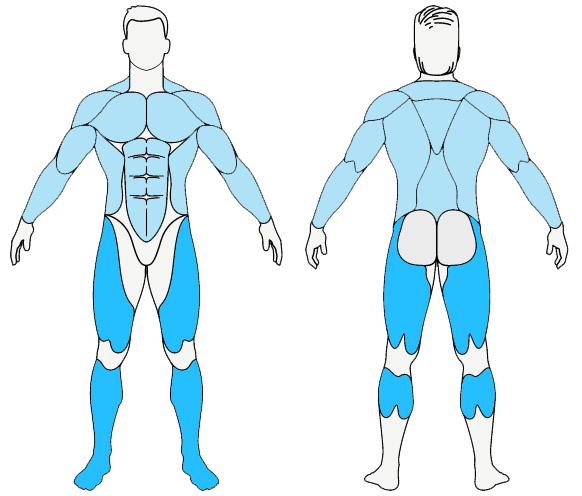
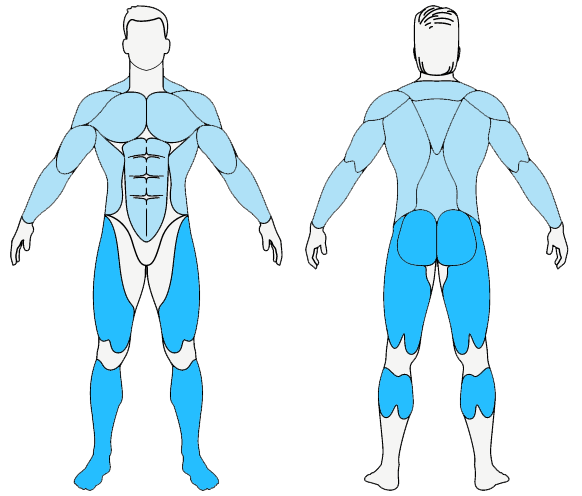
EVO-129 Detalles del SE
Se agrego la parte de Mujer dentro de una de la spreguntas del SE y se corrigio las herramientas aparte que se agrego otra opcion.

Changed region(s): [[0.6804, 0.4234, 0.8351, 0.5444]]

diff --git a/pages/SistemaE/Seccion41.jsx b/pages/SistemaE/Seccion41.jsx
@@ -9,7 +9,7 @@ function Seccion41(props) {
     //si quiero el name lo mando aqui
     props.onChange(value);
   };
-
+  const { valor } = props;
   return (
     <div>
       <div className="grid place-items-center">
@@ -38,11 +38,15 @@ function Seccion41(props) {
             >
               <div className="xl:grid xl:place-items-center">
                 <div className="h-36 w-36">
-                  <img src="img/torsoS.png"></img>
+                  {valor === "hombre" ? (
+                    <img src="img/torsoS.png"></img>
+                  ) : (
+                    <img src="img/torsoSM.png"></img>
+                  )}
                 </div>
               </div>
               <span className="text-xs font-semibold uppercase text-center mt-6">
-              Tronco superior
+                Tronco superior
               </span>
             </label>
           </div>
@@ -62,7 +66,12 @@ function Seccion41(props) {
             >
               <div className="xl:grid xl:place-items-center">
                 <div className="h-36 w-36">
-                  <img src="img/brazo.png"></img>
+                  {valor === "hombre" ? (
+                    <img src="img/brazo.png"></img>
+                  ) : (
+                    <img src="img/brazoM.png"></img>
+                  )}
+
                 </div>
               </div>
               <span className="text-xs font-semibold uppercase text-center mt-6">
@@ -86,11 +95,16 @@ function Seccion41(props) {
             >
               <div className="xl:grid xl:place-items-center">
                 <div className="h-36 w-36">
-                  <img src="img/pierna.png"></img>
+                {valor === "hombre" ? (
+                    <img src="img/pierna.png"></img>
+                  ) : (
+                    <img src="img/piernaM.png"></img>
+                  )}
+                  
                 </div>
               </div>
               <span className="text-xs font-semibold uppercase text-center mt-6">
-              Tronco inferior
+                Tronco inferior
               </span>
             </label>
           </div>
@@ -109,7 +123,12 @@ function Seccion41(props) {
             >
               <div className="xl:grid xl:place-items-center">
                 <div className="h-36 w-36">
-                  <img src="img/completo2.png"></img>
+                {valor === "hombre" ? (
+                    <img src="img/completo2.png"></img>
+                  ) : (
+                    <img src="img/completo2M.png"></img>
+                  )}
+                  
                 </div>
               </div>
               <span className="text-xs font-semibold uppercase text-center mt-6">

diff --git a/pages/rutinaSE.js b/pages/rutinaSE.js
@@ -17,13 +17,13 @@ export default function Home() {
   const router = useRouter();
   const { formData2, checkboxes, arreglo } = router.query;
   //JSON
-  
-    const formulario = JSON.parse(formData2);
-  
-    const herramientas = JSON.parse(checkboxes);
-  
-    const opciones = JSON.parse(arreglo);
-  
+
+  const formulario = JSON.parse(formData2);
+
+  const herramientas = JSON.parse(checkboxes);
+
+  const opciones = JSON.parse(arreglo);
+
   //contenidos de puede llegar a contener cada dia
   const contenido1 = [];//lUNES
   const contenido2 = [];//MARTES
@@ -69,7 +69,7 @@ export default function Home() {
       '2hr': { seriesG: 5, repeticionesG: 5, descanso: "Mas de 3 min" },
     },
   };
-  
+
   if (!opcionesEjercicio[objetivo] || !opcionesEjercicio[objetivo][tiempo]) {
     console.log("Error en el objetivo o tiempo seleccionado.");
     return;
@@ -79,37 +79,38 @@ export default function Home() {
 
 
 
-  
-     //____________________________________________pregunta de experiencia
-     if (opciones[2]==='principiante') {
-      console.log("principiante");
-    } else if (opciones[2]==='intermedio') {
-      console.log("intermedio");
-    } else if (opciones[2]==='avanzado') {
-      console.log("avanzado");
-    } else if (opciones[2]==='experimentado') {
-      console.log("experimentado");
-    } else {
-      console.log("Error en el SE P:OBJETIVO");
-    }
+
+
 
   //____________________________________________pregunta de enfoque.
-  if (opciones[4]==='superior') {
+  if (opciones[4] === 'superior') {
     //push pull leg
     console.log("1");
-  } else if (opciones[4]==='brazos') {
+  } else if (opciones[4] === 'brazos') {
     //pecho espalda brazo pierna
     console.log("2");
-  } else if (opciones[4]==='pierna') {
+  } else if (opciones[4] === 'pierna') {
     //pierna push pull intensidad
     console.log("3");
-  } else if (opciones[4]==='completo') {
+  } else if (opciones[4] === 'completo') {
     //push pull leg intensidad equilibrada ejercicios compuestos
     console.log("4");
   } else {
     console.log("Error en el SE P:ENFOQUE");
   }
 
+  //____________________________________________pregunta de experiencia
+  if (opciones[2] === 'principiante') {
+    console.log("principiante");
+  } else if (opciones[2] === 'intermedio') {
+    console.log("intermedio");
+  } else if (opciones[2] === 'avanzado') {
+    console.log("avanzado");
+  } else if (opciones[2] === 'experimentado') {
+    console.log("experimentado");
+  } else {
+    console.log("Error en el SE P:OBJETIVO");
+  }
 
   //llenar temporal
   for (let i = 0; i < 5; i++) {

diff --git a/pages/SistemaE/Seccion6.jsx b/pages/SistemaE/Seccion6.jsx
@@ -17,6 +17,7 @@ function Seccion6(props) {
   const [ch12, setCh12] = useState(false);
   const [ch13, setCh13] = useState(false);
   const [Ninguno, setNinguno] = useState(false);
+  const [Todos, setTodos] = useState(false);
   
     function handleNoneClick() {
       setNinguno(!Ninguno);
@@ -34,10 +35,32 @@ function Seccion6(props) {
         setCh11(false);
         setCh12(false);
         setCh13(false);
+        setTodos(false);
+      }
+    }
+    function handleAllClick() {
+      setTodos(!Todos);
+      if (!Todos) {
+        setNinguno(false);
+        setCh1(true);
+        setCh2(true);
+        setCh3(true);
+        setCh4(true);
+        setCh5(true);
+        setCh6(true);
+        setCh7(true);
+        setCh8(true);
+        setCh9(true);
+        setCh10(true);
+        setCh11(true);
+        setCh12(true);
+        setCh13(true);
+        setTodos(true);
       }
     }
     function handleChClick(name) {
       setNinguno(false);
+      setTodos(false);
       if (name === "Bandaresistencia") setCh1(!ch1);
       if (name === "Bandasuspension") setCh2(!ch2);
       if (name === "Barra") setCh3(!ch3);
@@ -326,11 +349,23 @@ function Seccion6(props) {
         </li>
         <li className="w-full border-b border-gray-200 sm:border-b-0 sm:border-r dark:border-gray-600">
           <div className="flex items-center pl-3">
+            <input
+              id="ch1"
+              type="checkbox"
+              name="Todos"
+              onChange={onCheckboxChange}
+              checked={Todos} onClick={handleAllClick}
+              className="w-4 h-4 text-blue-600 bg-gray-100 border-gray-300 rounded dark:bg-gray-600 dark:border-gray-500"
+            />
             <label
+              htmlFor="ch1"
               className="w-full py-3 ml-2 text-sm font-medium text-gray-900 dark:text-gray-300"
-            ></label>
+            >
+              Todos
+            </label>
           </div>
         </li>
+
         <li className="w-full border-b border-gray-200 sm:border-b-0 sm:border-r dark:border-gray-600">
           <div className="flex items-center pl-3">
             <label

diff --git a/pages/sistemaexperto.js b/pages/sistemaexperto.js
@@ -142,6 +142,23 @@ export default function Home() {
         BancoInclinado: false,
         Cuerda: false,
       });
+    }else if (name === "Todos") {
+      setCheckboxes({
+        Ninguno: false,
+        Bandaresistencia: true,
+        Bandasuspension: true,
+        Barra: true,
+        BarraZ: true,
+        Barras: true,
+        Mancuernas: true,
+        PesaRusa: true,
+        PlacaPeso: true,
+        MaquinasGYM: true,
+        BancoPlano: true,
+        BancoDeclinado: true,
+        BancoInclinado: true,
+        Cuerda: true,
+      });
     } else {
       setCheckboxes({
         ...checkboxes,
@@ -160,7 +177,7 @@ export default function Home() {
   } else if (value === 3) {
     element = <Seccion4 onChange={handleChange} />;
   } else if (value === 4 && arreglo[2] != "principiante") {
-    element = <Seccion41 onChange={handleChange} />;
+    element = <Seccion41 onChange={handleChange} valor={arreglo[0]} />;
   } else if (value === 5) {
     element = <Seccion5 onSubmit={handleFormSubmit} />;
   } else if (value === 6) {
